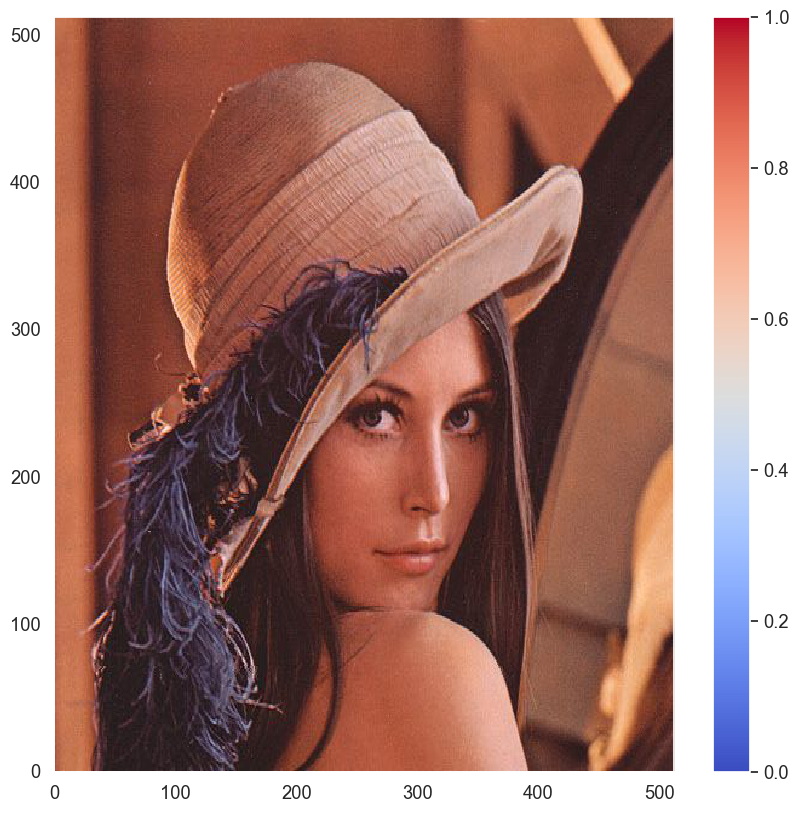
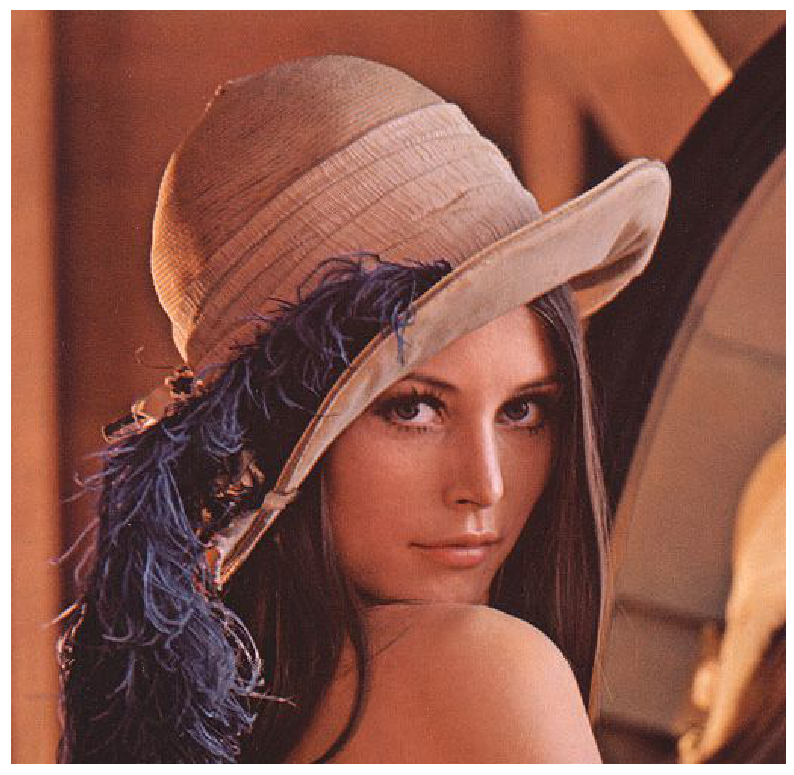
new figures

diff --git a/tests.py b/tests.py
@@ -96,18 +96,17 @@ import matplotlib.image as mpimg
 img=mpimg.imread('./docs/figs/lenna.png')
 
 et.tic()
-fig = imagesc.fast(img)
-# imagesc.savefig(fig, './docs/figs/fast_lenna.png')
+fig = imagesc.fast(img, cbar=False, axis=False)
+imagesc.savefig(fig, './docs/figs/fast_lenna.png')
 print('[%.3f] fast' %(et.toc()))
 
 et.tic()
 fig = imagesc.fastclean(img)
-# imagesc.savefig(fig, './docs/figs/fastclean_lenna.png')
 print('[%.3f] fastclean' %(et.toc()))
 
 et.tic()
-fig = imagesc.plot(img, linewidth=0, cbar=False)
-# imagesc.savefig(fig, './docs/figs/plot_lenna1.png')
+fig = imagesc.plot(img, linewidth=0, cbar=False, axis=False)
+imagesc.savefig(fig, './docs/figs/plot_lenna1.png')
 print('[%.3f] plot' %(et.toc()))
 
 # et.tic()

diff --git a/setup.py b/setup.py
@@ -1,6 +1,6 @@
 import setuptools
 #import versioneer
-new_version='0.1.0'
+new_version='0.1.1'
 
 with open("README.md", "r") as fh:
     long_description = fh.read()
@@ -13,7 +13,7 @@ setuptools.setup(
 #     cmdclass=versioneer.get_cmdclass(),  # VERSION CONTROL
      author="Erdogan Taskesen",
      author_email="erdogant@gmail.com",
-     description="imagesc is an python package to create heatmaps.",
+     description="imagesc is an python package to create heatmaps using multiple methods.",
      long_description=long_description,
      long_description_content_type="text/markdown",
      url="https://github.com/erdogant/imagesc",
